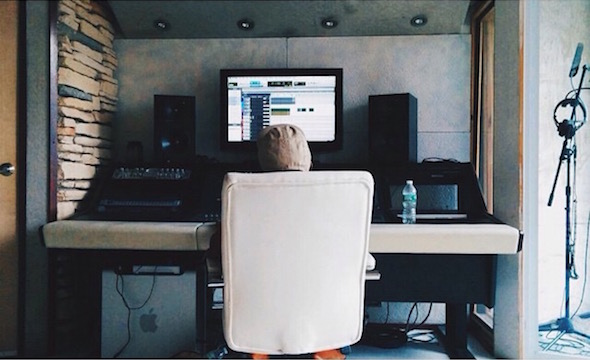
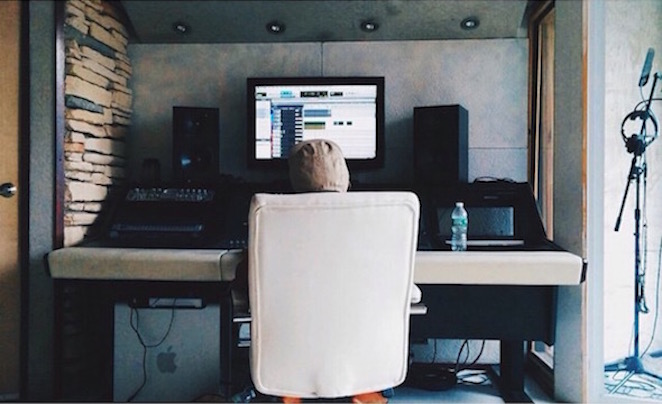
change main img size

diff --git a/stylesheets/default.css b/stylesheets/default.css
@@ -108,6 +108,7 @@ ul li:hover ul{
 	border-bottom-color: #3c666a;
 	margin-right: -1em;
 	transition: .7s ease;
+	width: 101.5%;
 }
 
 /*#main_text:hover {
@@ -147,7 +148,7 @@ footer {
 	text-align: center;
 	margin-top: 10em;
 	margin-bottom: 1.5em;
-	width: 40%;
+	width: 45%;
 	margin-left: 22em;
 	/*width: 106.5%;
 	background-color: black;
